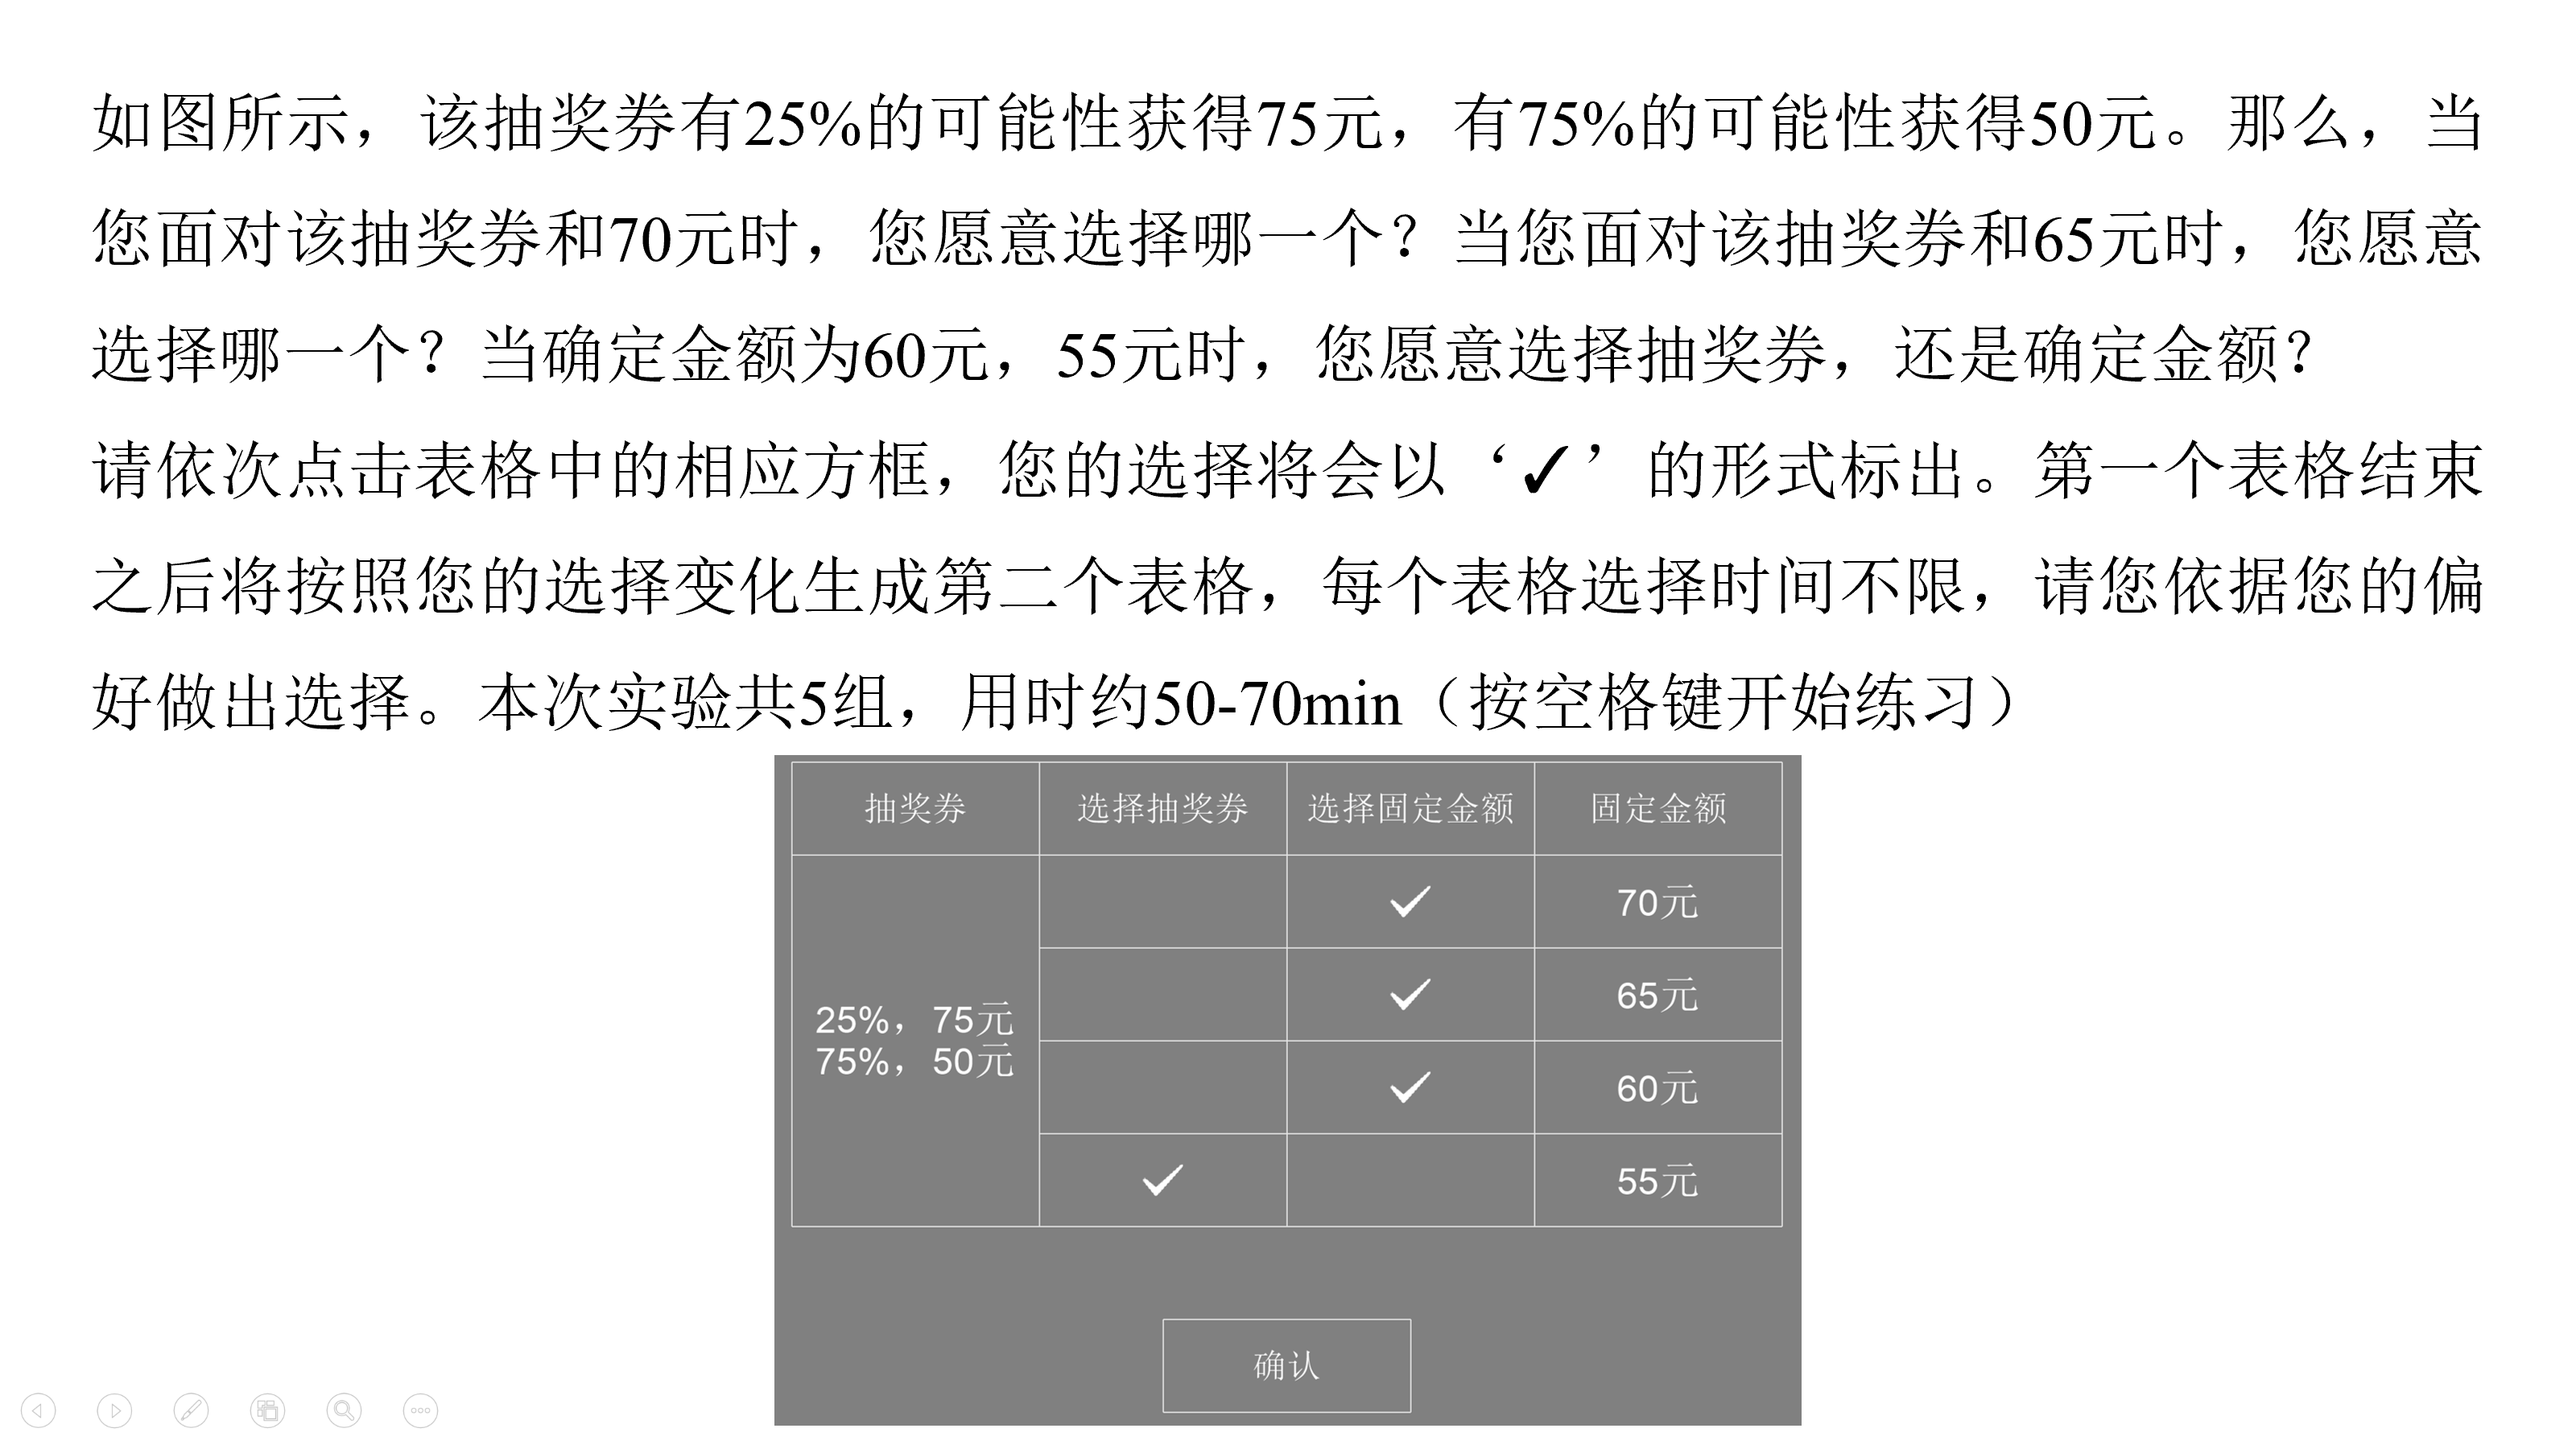
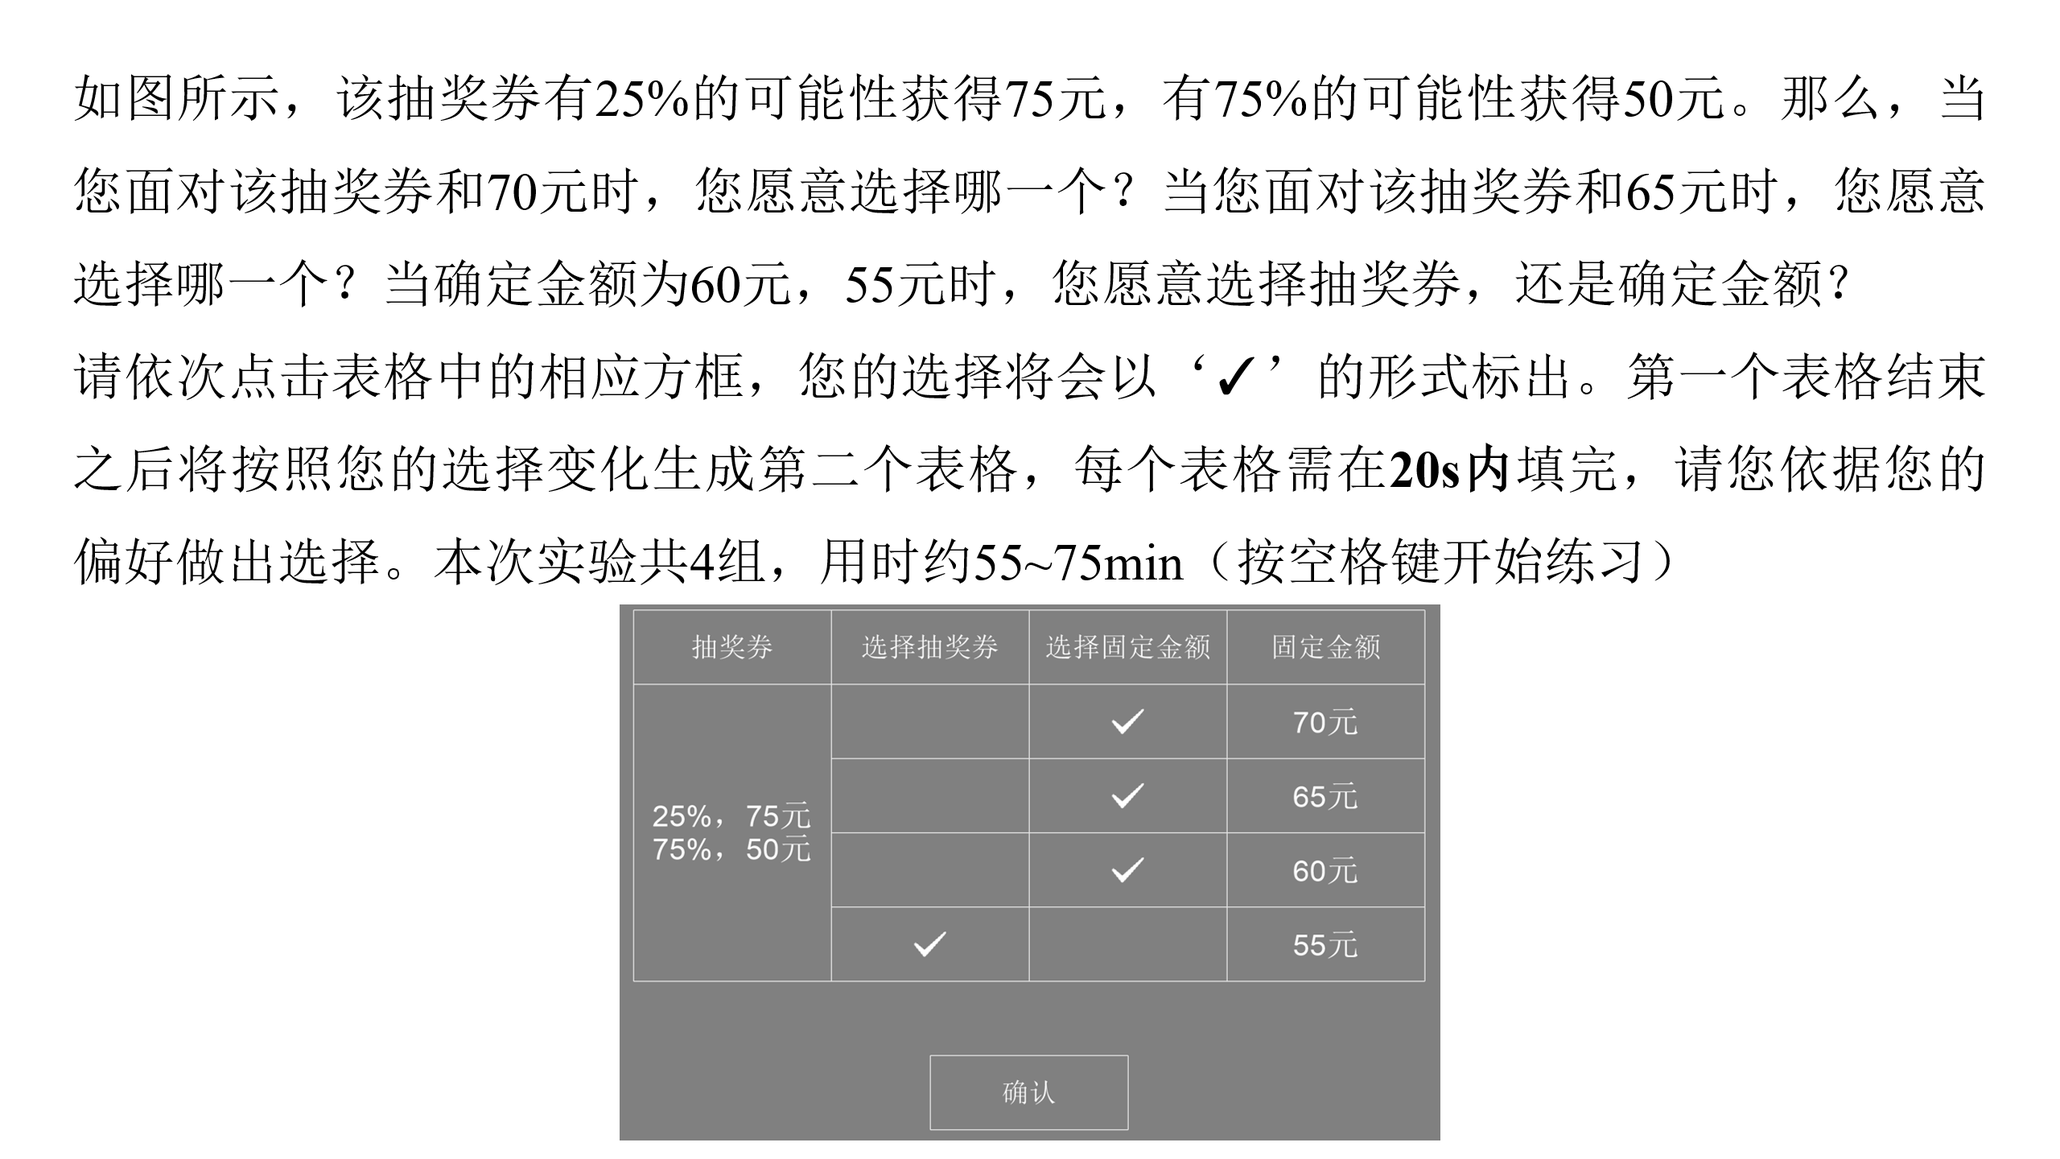
修改指导语及部分bug

diff --git a/run_gamble.py b/run_gamble.py
@@ -40,10 +40,10 @@ df['pix_w'] = w
 df['pix_h'] = h
 
 results = {
-    'id': [], 'first_upper': [], 'first_lower': [], 'second_upper': [], 'second_lower': [],
+    'id': [], 'first_upper': [], 'first_lower': [], 'upper': [], 'lower': [],
     'rt1': [], 'rt2': [], 'mirror': [], 'inverse': []
     }
-result_tr = {'id': [], 'rt': [], 'first_upper': [], 'first_lower': [], 'second_upper': [], 'second_lower': []}
+result_tr = {'id': [], 'rt': [], 'first_upper': [], 'first_lower': [], 'upper': [], 'lower': []}
 
 win = visual.Window(size=(w, h), fullscr=True, units='pix', color=[0, 0, 0])
 
@@ -159,7 +159,7 @@ for i in range(len(df)):
     if i in (np.array([1,2,3])*44-1):
         # timeout_trial
         for each in timeout_trial:
-            result = trial(each, win, df, clk, tables, buttons, text_timeout, myMouse=myMouse)
+            result = trial(each, win, df, clk, tables, buttons, txt_time, myMouse=myMouse)
             results['rt1'][each] = result['rt1']
             results['rt2'][each] = result['rt2']
             results['mirror'][each] = result['mirror']
@@ -168,6 +168,8 @@ for i in range(len(df)):
             results['first_upper'][each] = result['first_upper']
             results['lower'][each] = result['lower']
             results['upper'][each] = result['upper']
+            if result['upper'] == -1:
+                timeout_trial.append(each)
         timeout_trial = []
         txt.text = '请休息一下（20s后方可按空格键继续）'
         txt.draw()
